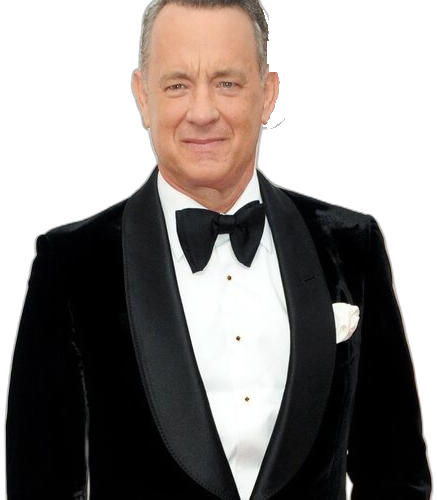
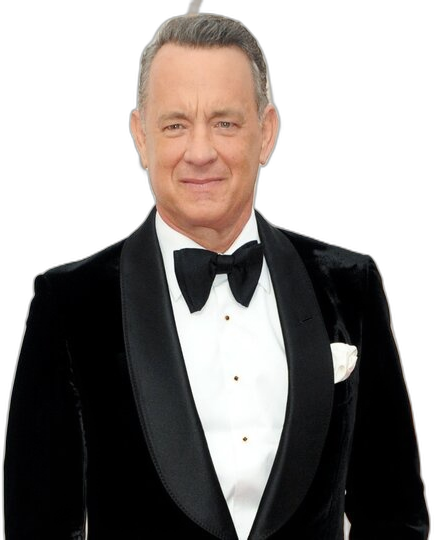
greyhound: recut Hanks sticker, calmer camera and transitions
Claude-Session: https://claude.ai/code/session_012yuNt4XPy1ABH22NKW8oiP

diff --git a/scenes2d/greyhound.js b/scenes2d/greyhound.js
@@ -29,9 +29,9 @@ function sticker(s, t, i) {
   if (dt < 0 || !IMG[s.k]) return '';
   const f = dt * 30;
   const pop = f < 6 ? lerp(0.2, 1.12, f / 6) : f < 10 ? lerp(1.12, 0.96, (f - 6) / 4) : f < 14 ? lerp(0.96, 1, (f - 10) / 4) : 1;
-  const out = s.out != null ? 1 - io((t - s.out) / 0.5) : 1;
+  const out = s.out != null ? 1 - sine((t - s.out) / 0.9) : 1;
   const wob = wave(t, 0.35, i * 2) * 2.4, bob = wave(t, 0.25, i * 1.3) * 7;
-  return `<defs>${STICKER_FILTER}</defs><g transform="translate(${s.x - (1 - out) * 700} ${s.y + bob}) rotate(${s.tilt + wob}) scale(${pop})" opacity="${clamp(f / 3) * clamp(out * 1.5)}"><image href="${IMG[s.k]}" x="${-s.w / 2}" y="${-s.h / 2}" width="${s.w}" height="${s.h}" preserveAspectRatio="xMidYMid meet" filter="url(#stk)"/></g>`;
+  return `<defs>${STICKER_FILTER}</defs><g transform="translate(${s.x - (1 - out) * 120} ${s.y + bob}) rotate(${s.tilt + wob}) scale(${pop})" opacity="${clamp(f / 3) * clamp(out * 1.5)}"><image href="${IMG[s.k]}" x="${-s.w / 2}" y="${-s.h / 2}" width="${s.w}" height="${s.h}" preserveAspectRatio="xMidYMid meet" filter="url(#stk)"/></g>`;
 }
 
 // ---------- персонажи ----------
@@ -181,11 +181,11 @@ const shots = {
   // 1. Ночной мостик в красном свете: крупно Краузе, рядом радист; из рации идут волны на «враг», лицо мрачнеет к «не доживут»
   radio(t, T) {
     const k = sine(t / T);
-    const camX = lerp(30, -30, k);
+    const camX = lerp(12, -12, k);
     const call = at(t, 1.7, 0.4), enemy = at(t, 2.5, 0.3), doom = at(t, 4.6, 0.5);
     const ring = (i) => { const p = ((t - D - 2.5) * 0.9 + i / 3) % 1; return t - D < 2.5 ? '' : `<circle cx="210" cy="1060" r="${40 + p * 260}" fill="none" stroke="#ff6a4a" stroke-width="${6 - p * 4}" opacity="${0.6 * (1 - p) * enemy}"/>`; };
     return {
-      cam: { z: lerp(1.0, 1.14, k), y: lerp(0, -50, k) },
+      cam: { z: lerp(1.0, 1.07, k), y: lerp(0, -25, k) },
       els: [
         `<rect width="1080" height="1920" fill="#07090e"/>`,
         // за стеклом: чёрный океан, луч прожектора со снегом
@@ -208,12 +208,12 @@ const shots = {
   // 2. Утро: Краузе на крыле мостика; камера отъезжает, за кормой открываются колонны транспортов до горизонта
   convoy(t, T) {
     const k = sine(t / T), reveal = io((t - D - 1.6) / 3.6);
-    const camX = lerp(-20, 30, k);
+    const camX = lerp(-10, 15, k);
     let ships = '';
     const rows = [[860, 0.16, 6, 0.3], [930, 0.24, 5, 0.18], [1030, 0.36, 4, 0.05]];
     rows.forEach(([y, s, n, fade], ri) => { for (let i = 0; i < n; i++) ships += `<g opacity="${clamp(reveal * 1.6 - i * 0.12)}">${freighter(-60 + i * (1200 / n) + ri * 70 + t * 6, y, s, t, ['#4a3a34', '#3a4248', '#5a4a3a', '#44403a'][(i + ri) % 4], i + ri * 7)}</g>`; ships += `<rect x="-300" y="${y - 260 * s}" width="1680" height="${300 * s}" fill="#b8c4cc" opacity="${fade}"/>`; });
     return {
-      cam: { z: lerp(1.45, 1.0, io((t - D) / (T * 0.85))), y: lerp(-260, 0, io((t - D) / (T * 0.85))), x: lerp(60, 0, k) },
+      cam: { z: lerp(1.2, 1.0, sine((t - D) / (T * 0.95))), y: lerp(-120, 0, sine((t - D) / (T * 0.95))), x: lerp(30, 0, k) },
       els: [
         sky('#7a8a98', '#aab6c0', '#c4ccd2') + clouds(t, 160, '#e2e8ec', 0.7, 10, 14),
         glow(820, 520, 360, '#fff4e0', 0.35),
@@ -232,7 +232,7 @@ const shots = {
   // 3. Штурманский стол: на карте посреди океана растекается «Чёрная яма», пять отметок суток; потом последний самолёт качает крыльями и уходит
   gap(t, T) {
     const k = sine(t / T);
-    const pit = at(t, 0.6, 1.0), days = (i) => at(t, 1.8 + i * 0.12, 0.25), sw = io((t - D - 2.7) / 0.7);
+    const pit = at(t, 0.6, 1.0), days = (i) => at(t, 1.8 + i * 0.12, 0.25), sw = sine((t - D - 2.5) / 1.3);
     const route = clamp((t - D) / 2.6);
     // карта
     let map = `<rect x="80" y="760" width="920" height="1060" rx="6" fill="${V('#d8ccaa', 0.1, 0.25)}"/>`;
@@ -255,13 +255,13 @@ const shots = {
     map += `<g transform="rotate(${ca} 700 900)"><path d="M700,900 L640,1180 M700,900 L760,1170" stroke="#9aa0a6" stroke-width="7" stroke-linecap="round"/><circle cx="700" cy="900" r="14" fill="#c8a860"/></g>`;
     const table = `<rect x="-200" y="560" width="1480" height="1500" fill="${V('#4a3020', 0.1, 0.35)}"/>` + map + glow(540, 1050, 700, '#ffcf80', 0.25) + `<path d="M540,0 L540,560" stroke="#222" stroke-width="6"/><path d="M430,600 Q540,520 650,600 Z" fill="#2a3a2e"/>`;
     // небо с самолётом
-    const pl = clamp((t - D - 2.8) / 3.0), wag = Math.sin((t - D - 2.8) * 6) * 16 * clamp(1 - Math.abs(pl - 0.45) * 3);
+    const pl = clamp((t - D - 2.8) / 3.0), wag = Math.sin((t - D - 2.8) * 4) * 10 * clamp(1 - Math.abs(pl - 0.45) * 3);
     const px2 = lerp(1250, -250, sine(pl)), py2 = lerp(1050, 820, pl) - Math.sin(pl * Math.PI) * 90;
     const skyG = sky('#5a6876', '#8a98a4', '#a8b2ba') + clouds(t, 600, '#d8dfe4', 0.6, 9, 20, 9) + sea(t, 1300, '#3a4a58', '#dde6ec', 0.9) +
       [0, 1, 2, 3].map((i) => freighter(140 + i * 250 + (i % 2) * 40, 1370 + (i % 2) * 70, 0.17 + (i % 2) * 0.05, t, '#3a3a3a', i)).join('') +
       plane(px2, py2, 1.05, wag + pl * 12);
     return {
-      cam: { z: lerp(1.05, 1.15, k), y: lerp(20, -30, k) },
+      cam: { z: lerp(1.03, 1.09, k), y: lerp(10, -15, k) },
       els: [
         `<g opacity="${1 - sw}" transform="translate(0 ${-sw * 120})">${table}</g>`,
         `<g opacity="${sw}">${skyG}</g>`,
@@ -273,7 +273,7 @@ const shots = {
 
   // 4. Под водой: под днищами конвоя скользят подлодки; на «бьют» — ночная поверхность, перископ, след торпеды; на «исчезают» перископ уходит
   wolves(t, T) {
-    const sw = io((t - D - 1.45) / 0.45);
+    const sw = sine((t - D - 1.1) / 1.0);
     const k = sine(t / T);
     // подводный мир
     let under = `<rect x="-200" y="-100" width="1480" height="2200" fill="${grad([[0, '#2a5a5a'], [0.35, '#123232'], [1, '#040c0e']])}"/>`;
@@ -291,7 +291,7 @@ const shots = {
     surf += `<path d="M${lerp(300, 700, torp * 0.9)},${lerp(1500, 1060, torp * 0.9)} L300,1500" stroke="#e8f2f8" stroke-width="${lerp(14, 6, torp)}" opacity="${0.75 * clamp(torp * 4) * (1 - clamp((torp - 0.85) * 6))}" stroke-linecap="round"/>`;
     surf += periscope(300, 1500, 280 * up * (1 - down), t, clamp(up * 3) * (1 - down * 0.8));
     return {
-      cam: { z: lerp(1.0, 1.1, k), y: lerp(0, -40, k), x: lerp(20, -20, k) },
+      cam: { z: lerp(1.0, 1.06, k), y: lerp(0, -20, k), x: lerp(10, -10, k) },
       els: [
         `<g opacity="${1 - sw}">${under}</g>`,
         `<g opacity="${sw}">${surf}</g>`,
@@ -302,11 +302,11 @@ const shots = {
 
   // 5. Мостик днём в шторм: офицеры ждут приказа, брызги в стекло, кофе стынет; на «команда» Краузе указывает, камера подходит
   bridge(t, T) {
-    const k = sine(t / T), roll = wave(t, 0.12) * 3.5;
+    const k = sine(t / T), roll = wave(t, 0.1) * 1.5;
     const cmd = at(t, 2.3, 0.5), push = io((t - D - 3.0) / 2.2), err = at(t, 4.4, 0.4);
     const spray = (seed) => { reseed(seed); let g = ''; for (let i = 0; i < 26; i++) { const x = rnd() * 1080, y = 560 + rnd() * 560, r = 3 + rnd() * 10; g += `<circle cx="${x}" cy="${y + ((t * 30 * rnd()) % 80)}" r="${r}" fill="#dfe8ee" opacity="${0.18 + rnd() * 0.2}"/>`; } return g; };
     return {
-      cam: { z: lerp(1.0, 1.28, push), y: lerp(0, -170, push), x: lerp(-20, 0, k) },
+      cam: { z: lerp(1.0, 1.12, push), y: lerp(0, -80, push), x: lerp(-10, 0, k) },
       els: [
         `<rect width="1080" height="1920" fill="#1a1f26"/>`,
         // за стеклом: шторм, горизонт плавно качается
@@ -332,14 +332,14 @@ const shots = {
 
   // 6. Выбор: экран гидролокатора с отметкой → плот с людьми в ледяной воде → вид в перископ: эсминец в перекрестье
   dilemma(t, T) {
-    const pan = io((t - D - 1.2) / 0.6), scope = io((t - D - 3.4) / 0.6);
-    const sweep = ((t - D) * 2.2) % (Math.PI * 2);
+    const pan = sine((t - D - 0.9) / 1.2), scope = sine((t - D - 3.1) / 1.1);
+    const sweep = ((t - D) * 1.4) % (Math.PI * 2);
     // гидролокатор
     let sonar = `<rect x="-400" y="-200" width="1480" height="2300" fill="#0a0e0c"/><circle cx="540" cy="1100" r="400" fill="${R('#0e3a24', 0.15, 0.4)}"/>`;
     for (let r = 100; r <= 400; r += 100) sonar += `<circle cx="540" cy="1100" r="${r}" fill="none" stroke="#3aff9a" stroke-width="2" opacity="0.25"/>`;
     sonar += `<path d="M540,1100 L${540 + Math.cos(sweep) * 400},${1100 + Math.sin(sweep) * 400}" stroke="#7affc0" stroke-width="5" opacity="0.8"/>`;
     sonar += `<path d="M540,1100 L${540 + Math.cos(sweep) * 400},${1100 + Math.sin(sweep) * 400} A400,400 0 0 0 ${540 + Math.cos(sweep - 0.6) * 400},${1100 + Math.sin(sweep - 0.6) * 400} Z" fill="#3aff9a" opacity="0.18"/>`;
-    const blip = 0.5 + 0.5 * Math.sin((t - D) * 6);
+    const blip = 0.5 + 0.5 * Math.sin((t - D) * 3.5);
     sonar += glow(700, 930, 60, '#7affc0', 0.9 * blip) + `<circle cx="700" cy="930" r="12" fill="#c8ffe4" opacity="${0.6 + 0.4 * blip}"/>`;
     sonar += `<rect x="130" y="680" width="820" height="840" rx="40" fill="none" stroke="${V('#3a403c', 0.2, 0.3)}" stroke-width="40"/>`;
     // плот в ледяной воде
@@ -365,9 +365,9 @@ const shots = {
 
   // 7. Музейный эсминец у причала на реке, флаги расцвечивания; фото-стикер Хэнкса под имя; на «настоящем эсминце» камера идёт вдоль борта
   real(t, T) {
-    const k = sine(t / T), glide = io((t - D - 2.3) / 3.8);
+    const k = sine(t / T), glide = sine((t - D - 2.0) / 4.4);
     return {
-      cam: { z: lerp(1.0, 1.3, glide), x: lerp(0, -260, glide), y: lerp(0, -40, glide) },
+      cam: { z: lerp(1.0, 1.15, glide), x: lerp(0, -140, glide), y: lerp(0, -20, glide) },
       els: [
         sky('#5a8ac0', '#9ec2e0', '#d8e6ee') + clouds(t, 220, '#ffffff', 0.7, 8, 10, 12),
         glow(880, 360, 300, '#fff6d8', 0.6),
@@ -377,7 +377,7 @@ const shots = {
         par(lerp(0, 60, k), 0, `<rect x="-300" y="1120" width="1680" height="900" fill="${grad([[0, '#6a7a70'], [1, '#3a4a44']])}"/>` + [0, 1, 2, 3, 4, 5, 6].map((i) => `<path d="M${-200 + ((i * 230 + t * 30) % 1500)},${1180 + i * 70} l${120 + i * 20},0" stroke="#c8d4d0" stroke-width="4" opacity="0.3"/>`).join('')),
         // эсминец-музей и причал
         par(lerp(0, 120, k), 0, destroyer(600, 1330, 1.25, t, { num: '661', flags: true }) + `<rect x="-300" y="1380" width="1680" height="40" fill="${V('#8a7a66', 0.2, 0.3)}"/>` + [0, 1, 2, 3, 4, 5, 6, 7].map((i) => `<rect x="${-260 + i * 200}" y="1400" width="22" height="200" fill="#5a4a3a"/>`).join('') + `<rect x="-300" y="1600" width="1680" height="400" fill="${grad([[0, '#5a6a64'], [1, '#2a3632']])}"/>`),
-        sticker({ k: 'hanks', at: D + 1.2, out: D + 2.4, x: 330, y: 1240, w: 470, h: 540, tilt: -4 }, t, 0),
+        sticker({ k: 'hanks', at: D + 1.2, out: D + 3.0, x: 330, y: 1240, w: 470, h: 540, tilt: -4 }, t, 0),
         grade('#ffd8a0', 0.15),
         topShade(760, 0.45),
       ],
@@ -388,13 +388,13 @@ const shots = {
   dawn(t, T) {
     const k = sine(t / T);
     return {
-      cam: { z: lerp(1.0, 1.15, k), y: lerp(0, -80, k), x: lerp(-30, 10, k) },
+      cam: { z: lerp(1.0, 1.07, k), y: lerp(0, -40, k), x: lerp(-15, 5, k) },
       els: [
         sky('#2a3448', '#8a7a88', '#e8a878'),
         glow(780, 1000, 520, '#ffc890', 0.55),
         clouds(t, 380, '#5a5a70', 0.6, 9, 8, 21),
         par(lerp(-20, 20, k), 0, sea(t * 0.8, 1000, '#3a4658', '#f0d0b0', 0.7) + [0, 1, 2, 3, 4].map((i) => freighter(80 + i * 220, 1010 + (i % 2) * 10, 0.1, t, '#2a2a30', i + 3)).join('')),
-        par(lerp(-40, 40, k), 0, krause(400, 2560, 2.3, { look: lerp(0.6, 0.15, at(t, 1.5, 1.2)), frown: 0.6, worried: true, snow: true, blink: blink(t, 1.1), nod: wave(t, 0.35) * 0.6 + 0.5, tired: 1 }) + railing(1640, '#5a646e', 300)),
+        par(lerp(-15, 15, k), 0, krause(400, 2560, 2.3, { look: lerp(0.6, 0.15, at(t, 1.5, 1.2)), frown: 0.6, worried: true, snow: true, blink: blink(t, 1.1), nod: wave(t, 0.35) * 0.6 + 0.5, tired: 1 }) + railing(1640, '#5a646e', 300)),
         `<g opacity="0.9">${snow(t, 80, 0.7, 0.6, 29)}</g>`,
         grade('#ffb080', 0.25),
         topShade(780, 0.5),
